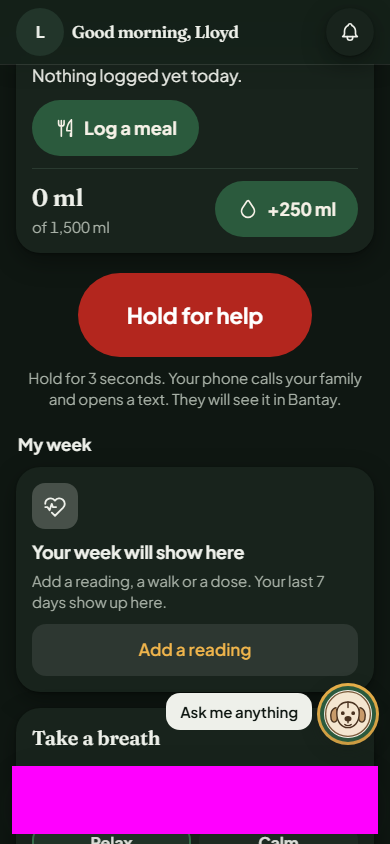
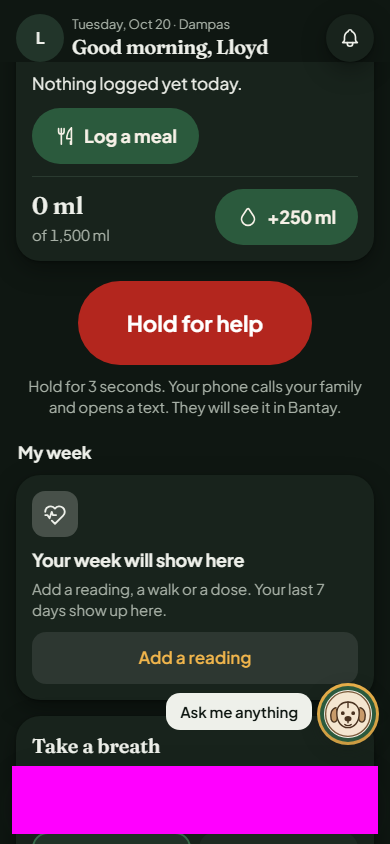
s13 T: dose-after shot is the card only

diff --git a/e2e/s13-t-today.auth.spec.ts b/e2e/s13-t-today.auth.spec.ts
@@ -66,7 +66,7 @@ for (const scheme of ['light', 'dark'] as const) {
     const done = page.getByRole('button', { name: /^Taken \d{1,2}:\d{2}/ })
     await expect(done).toBeVisible()
     await expect(card).not.toHaveClass(/leaving/) // the morph holds first, the collapse comes after
-    await shot(page, 'dose-after', scheme)
+    await card.screenshot({ path: `${SHOTS}/dose-after-${scheme}.png`, animations: 'disabled' }) // the card only: the toast under it fades in on its own clock
     await expect(card).toHaveCount(0, { timeout: 3000 }) // collapsed and freed
     await page.waitForTimeout(100)
     await shot(page, 'dose-gone', scheme)
